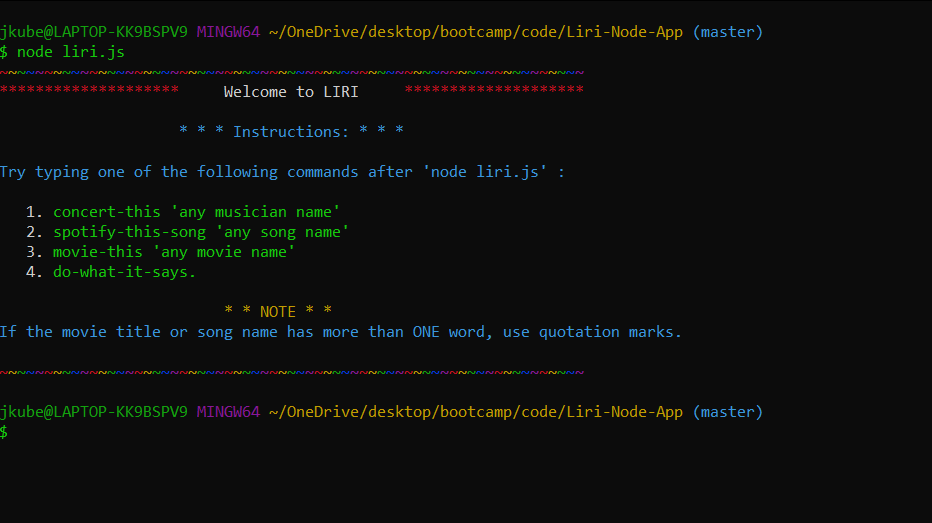
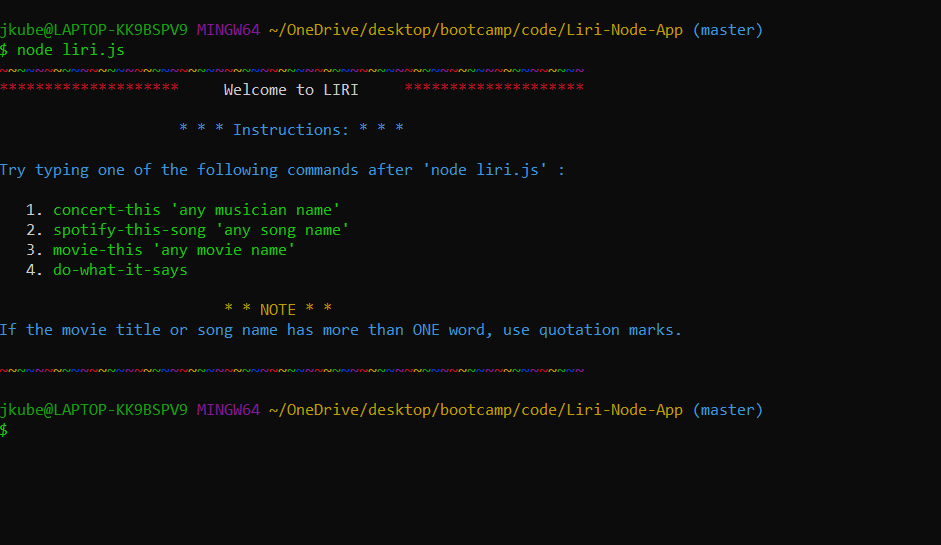
README img update

diff --git a/liri.js b/liri.js
@@ -45,7 +45,7 @@ function userCommand() {
                 "   1. ".white + "concert-this 'any musician name' " + "\r\n" +
                 "   2. ".white + "spotify-this-song 'any song name' " + "\r\n" +
                 "   3. ".white + "movie-this 'any movie name' " + "\r\n" +
-                "   4. ".white + "do-what-it-says." + "\r\n" + "\r\n" + 
+                "   4. ".white + "do-what-it-says" + "\r\n" + "\r\n" + 
                 "                         * * NOTE * *".yellow + "\r\n" + 
                 "If the movie title or song name has more than ONE word, use quotation marks.".cyan + "\r\n" + "\r\n" +
                 "~~~~~~~~~~~~~~~~~~~~~~~~~~~~~~~~~~~~~~~~~~~~~~~~~~~~~~~~~~~~~~~~~".rainbow
